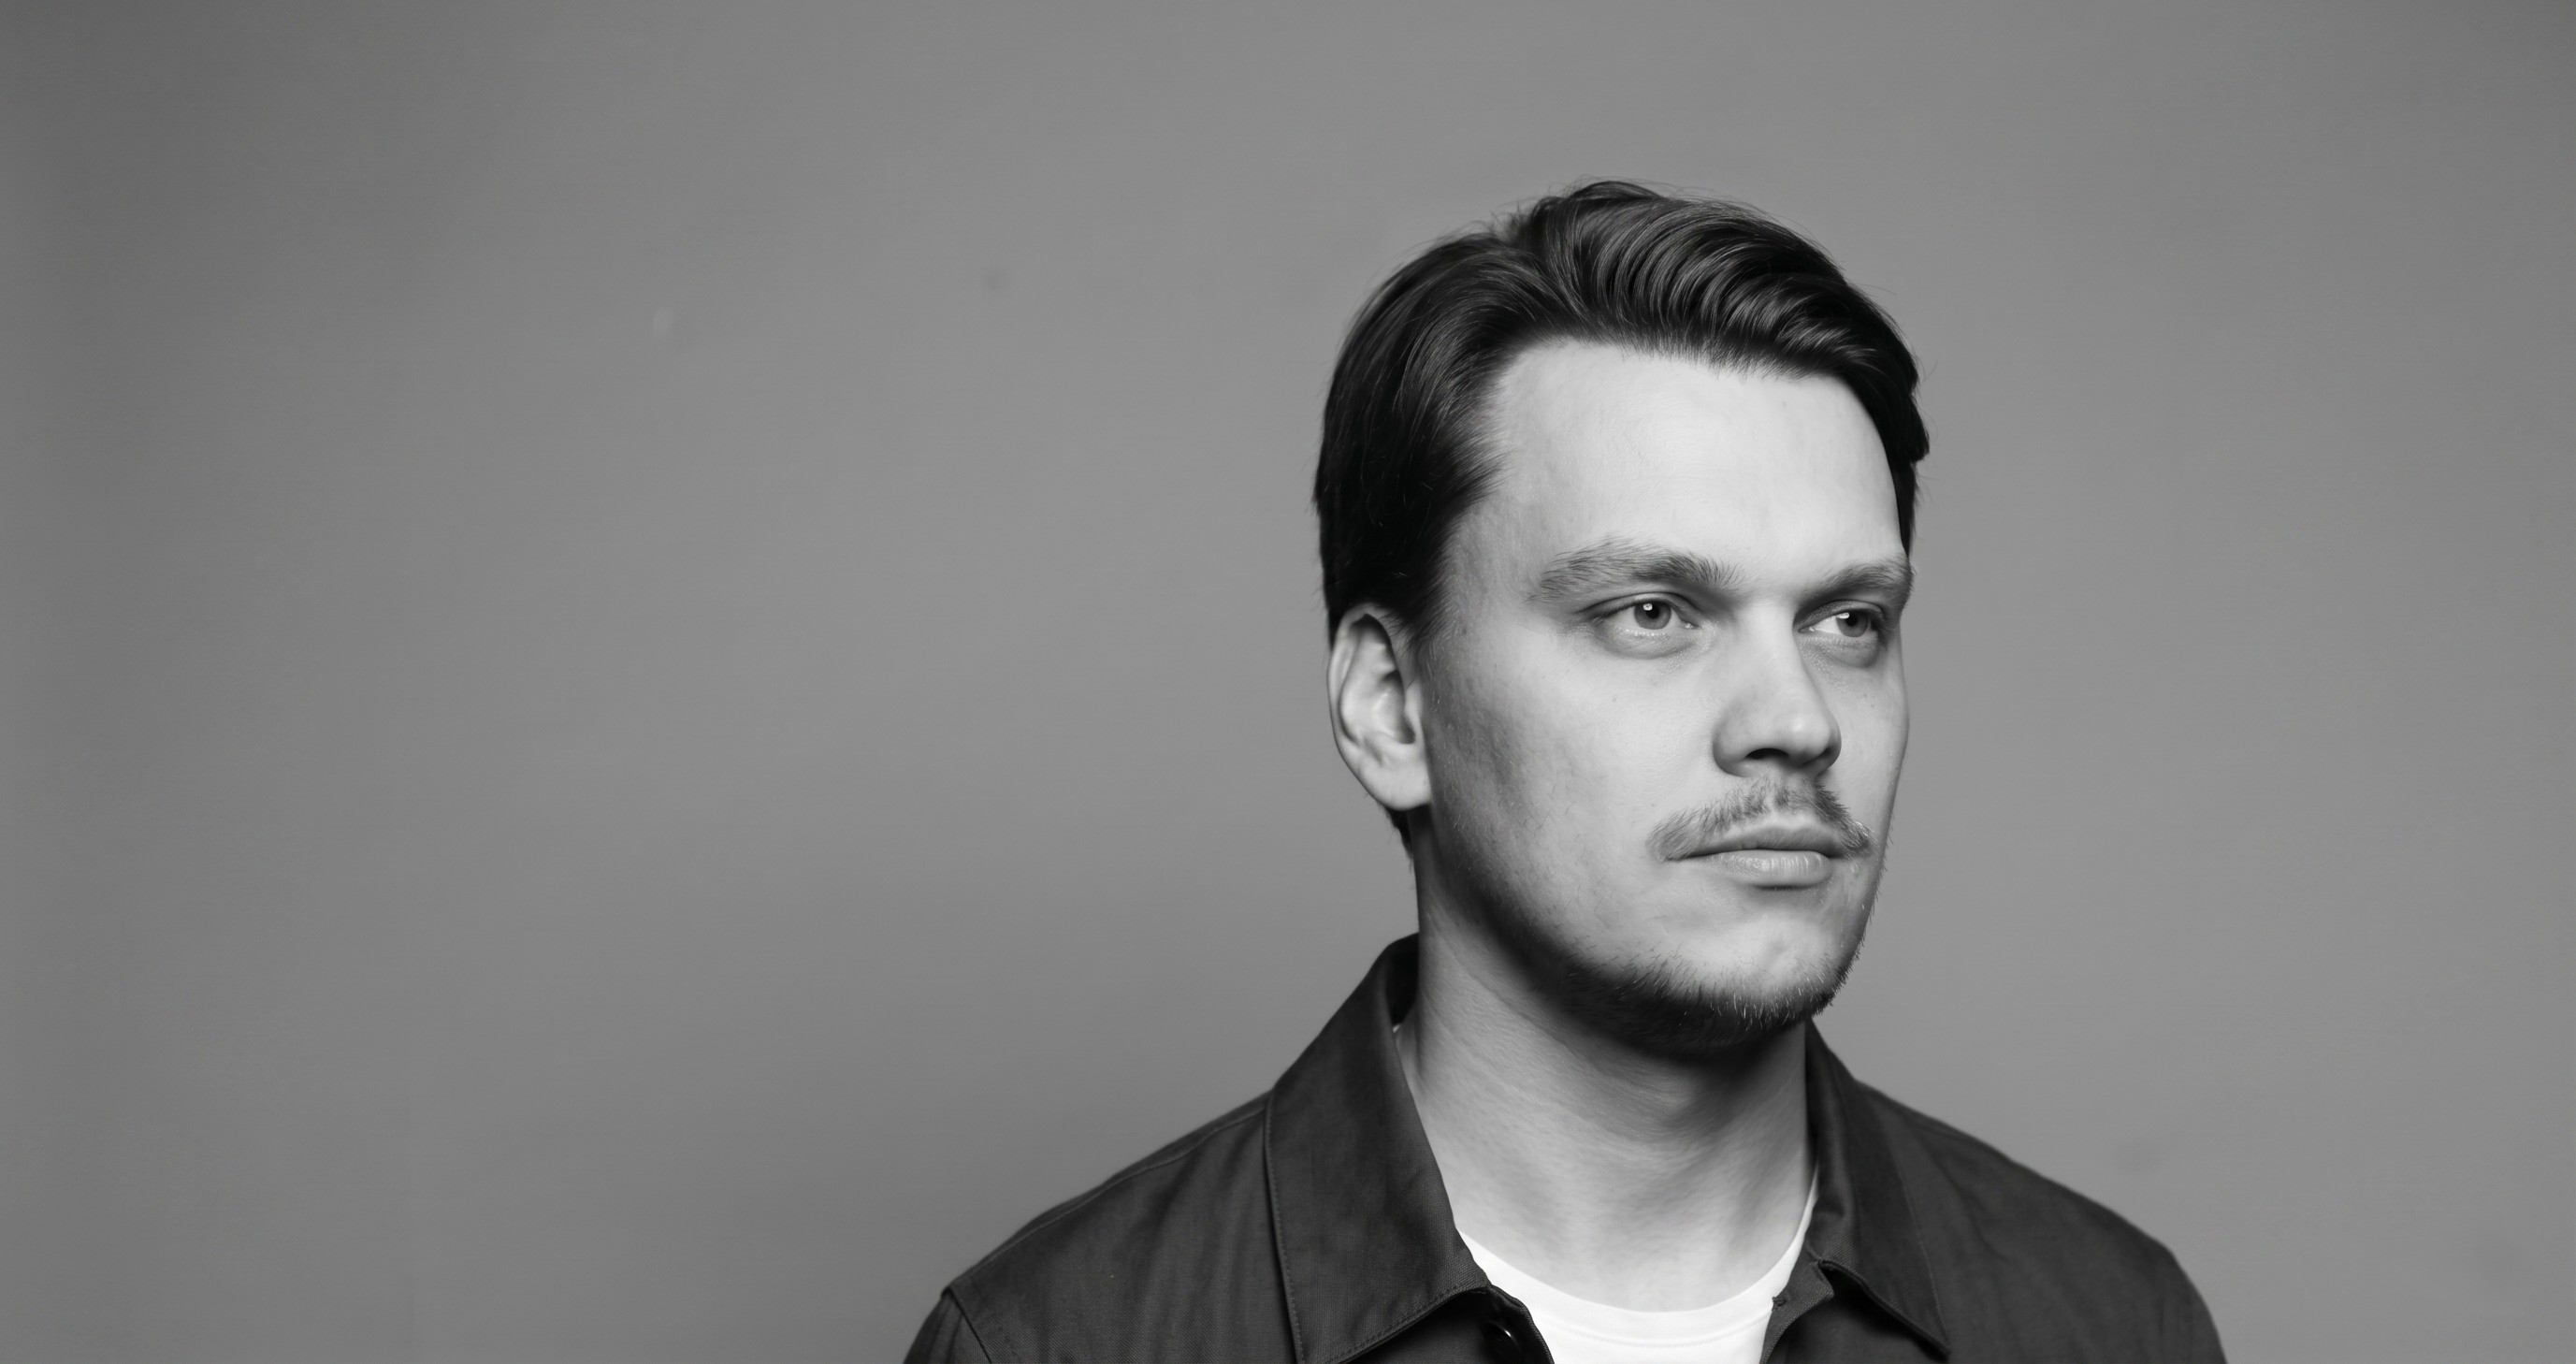
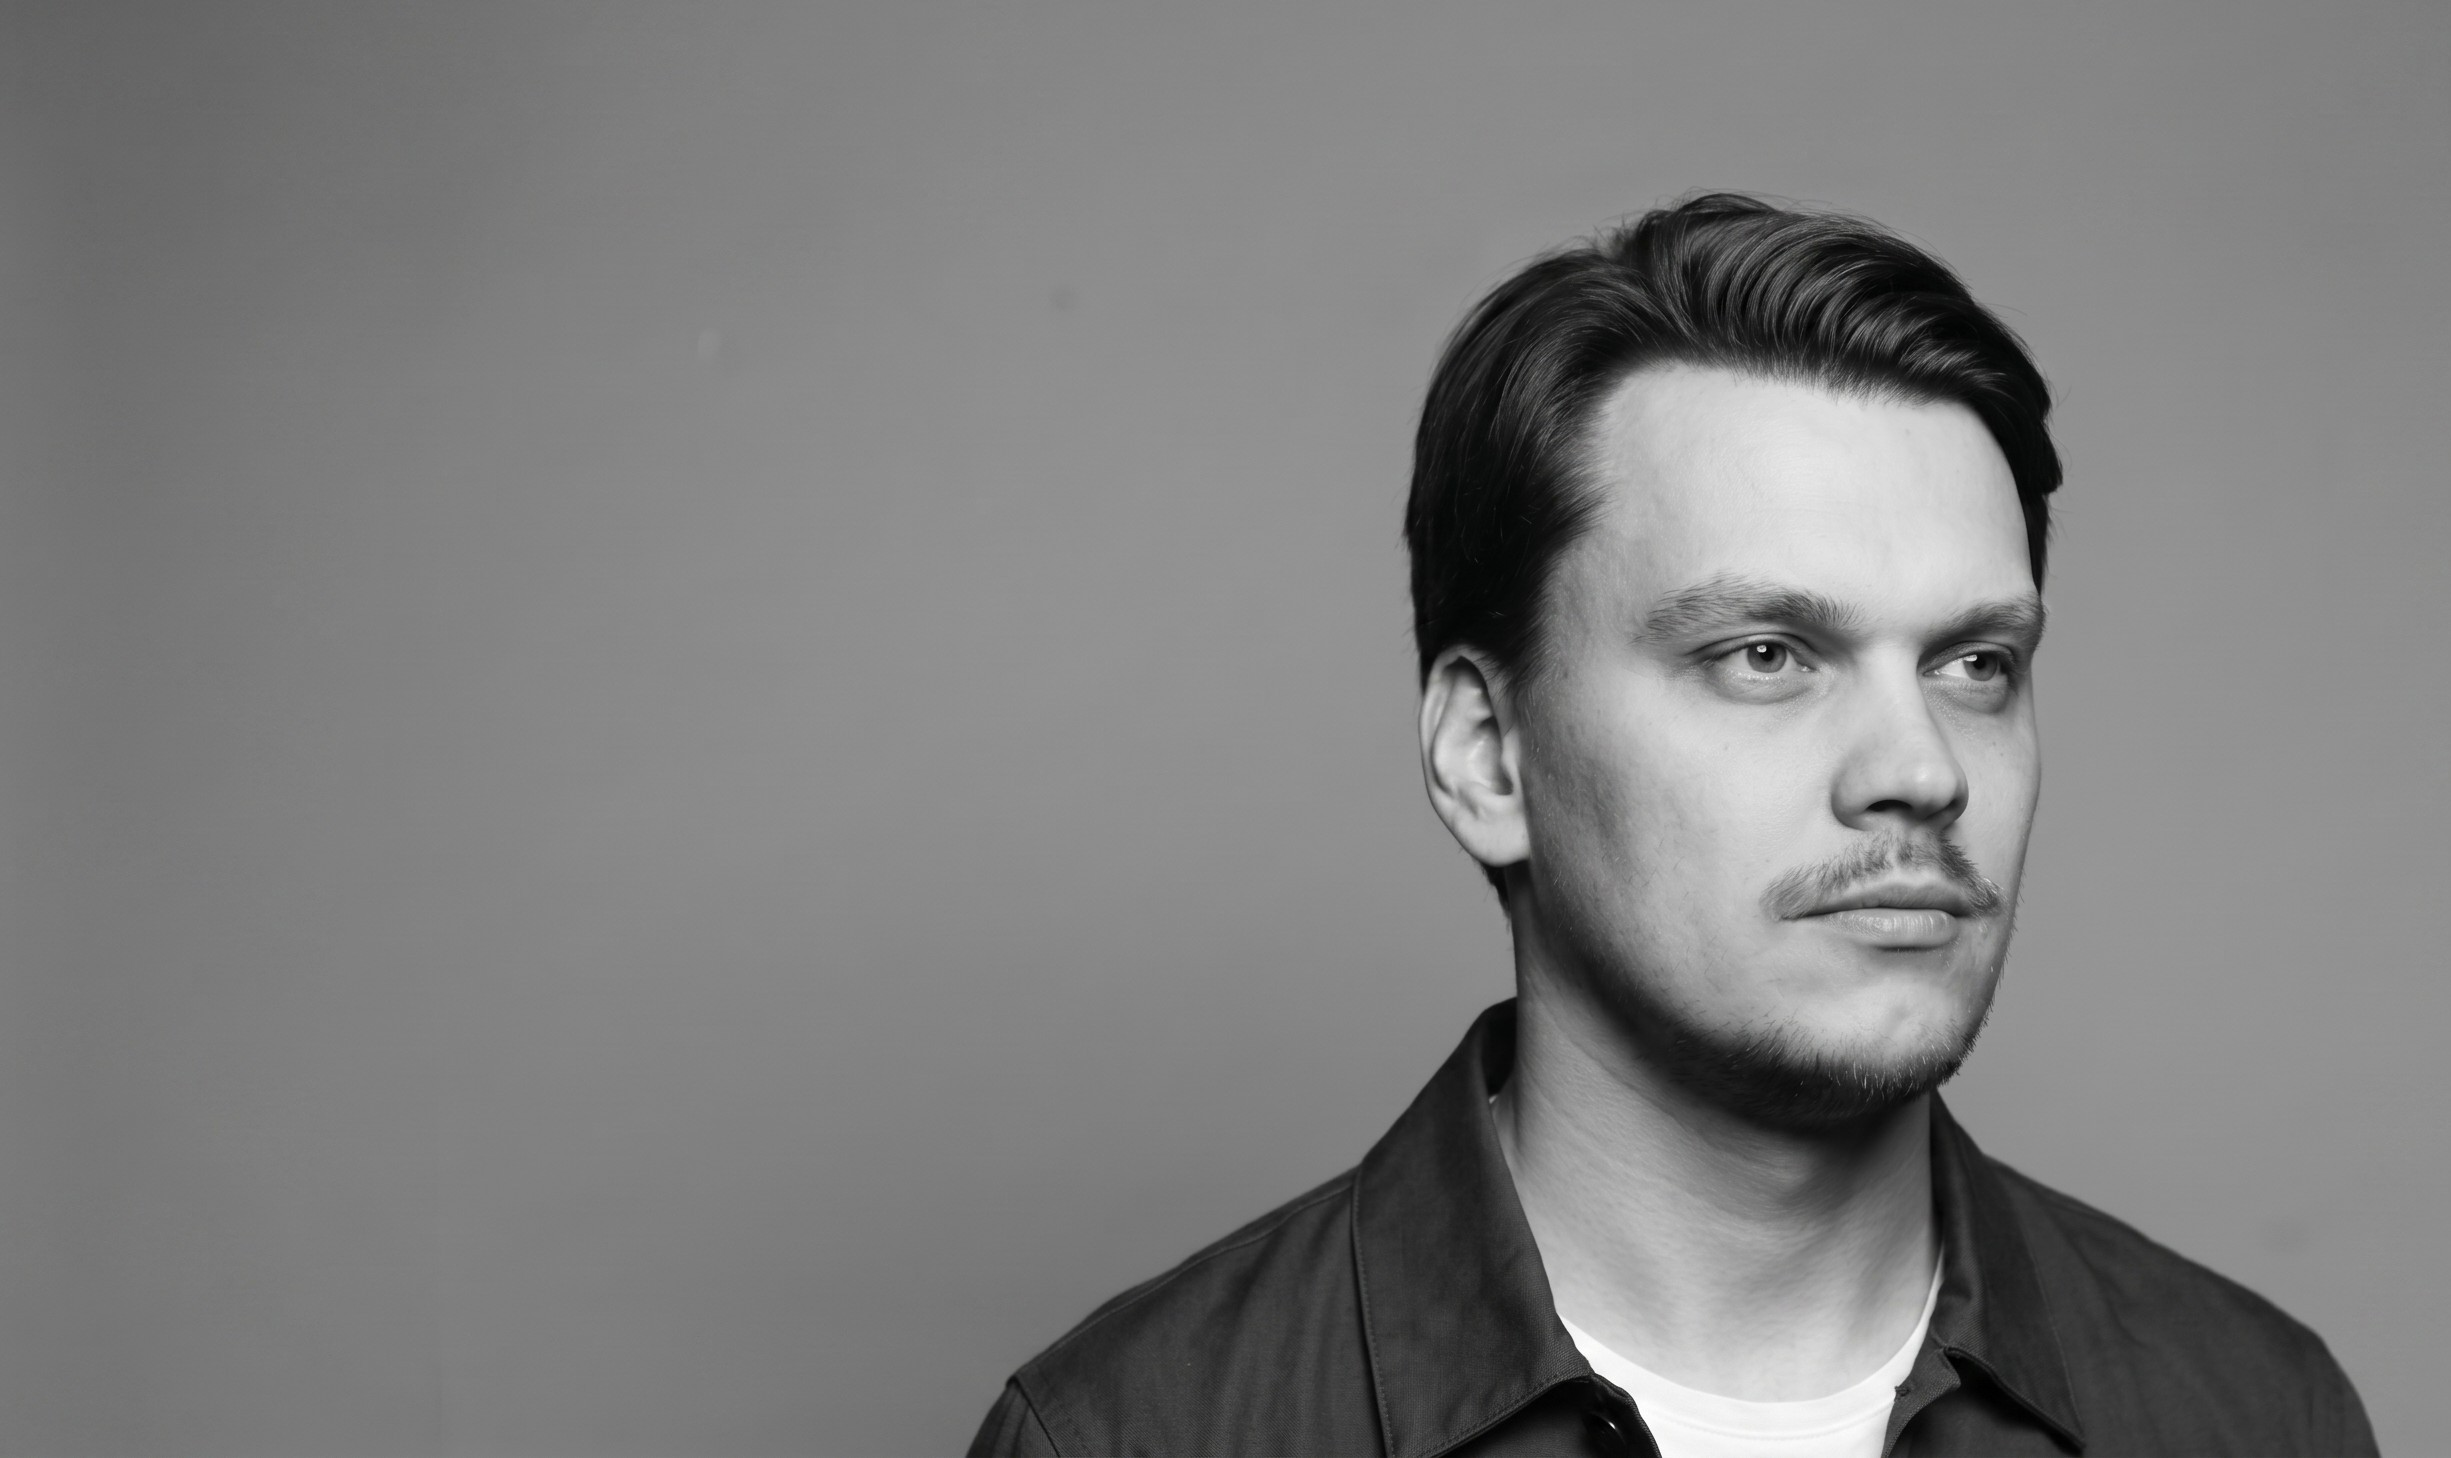
Update hero portrait and nav links

Changed region(s): [[0.3411, 0.1235, 0.9922, 1.0]]

diff --git a/src/style.css b/src/style.css
@@ -174,7 +174,7 @@ h4,
   justify-self: end;
   display: inline-flex;
   align-items: center;
-  gap: 0.55rem;
+  gap: clamp(1rem, 2vw, 2rem);
   opacity: 1;
   pointer-events: auto;
   transform: translateY(0);
@@ -225,47 +225,21 @@ h4,
 }
 
 .locationLink {
-  display: inline-flex;
-  align-items: center;
-  min-height: 2.75rem;
-  padding: 0.75rem 1rem 0.82rem;
-  border: 1px solid var(--line);
-  border-radius: 999px;
   white-space: nowrap;
-  background: transparent;
-  line-height: 1;
-  transition:
-    color 180ms ease,
-    background-color 180ms ease,
-    border-color 180ms ease,
-    transform 180ms ease;
 }
 
 .iconLink {
-  display: inline-grid;
-  place-items: center;
-  width: 2.75rem;
-  height: 2.75rem;
-  border: 1px solid var(--line);
-  border-radius: 999px;
+  display: inline-flex;
+  align-items: center;
   color: var(--text);
   text-transform: none;
   letter-spacing: 0;
   font-weight: 500;
-  background: transparent;
-  transition:
-    color 180ms ease,
-    background-color 180ms ease,
-    border-color 180ms ease,
-    transform 180ms ease;
 }
 
 .locationLink:hover,
 .iconLink:hover {
-  border-color: var(--text);
-  background: #ffffff;
   color: var(--text);
-  transform: translateY(-1px);
 }
 
 .page.is-scrolled .topbar {
@@ -302,7 +276,7 @@ h4,
   overflow: hidden;
   isolation: isolate;
   background:
-    var(--hero-bg) left center / cover no-repeat,
+    var(--hero-bg) right center / cover no-repeat,
     #f7f7f4;
   color: var(--text);
 }
@@ -407,10 +381,10 @@ h1 {
 }
 
 .hero .heroLead {
-  max-width: 500px;
+  max-width: 560px;
   color: rgba(5, 5, 5, 0.72);
-  font-size: clamp(1.12rem, 1.4vw, 1.55rem);
-  line-height: 1.38;
+  font-size: clamp(1.22rem, 1.62vw, 1.82rem);
+  line-height: 1.34;
   letter-spacing: 0;
 }
 